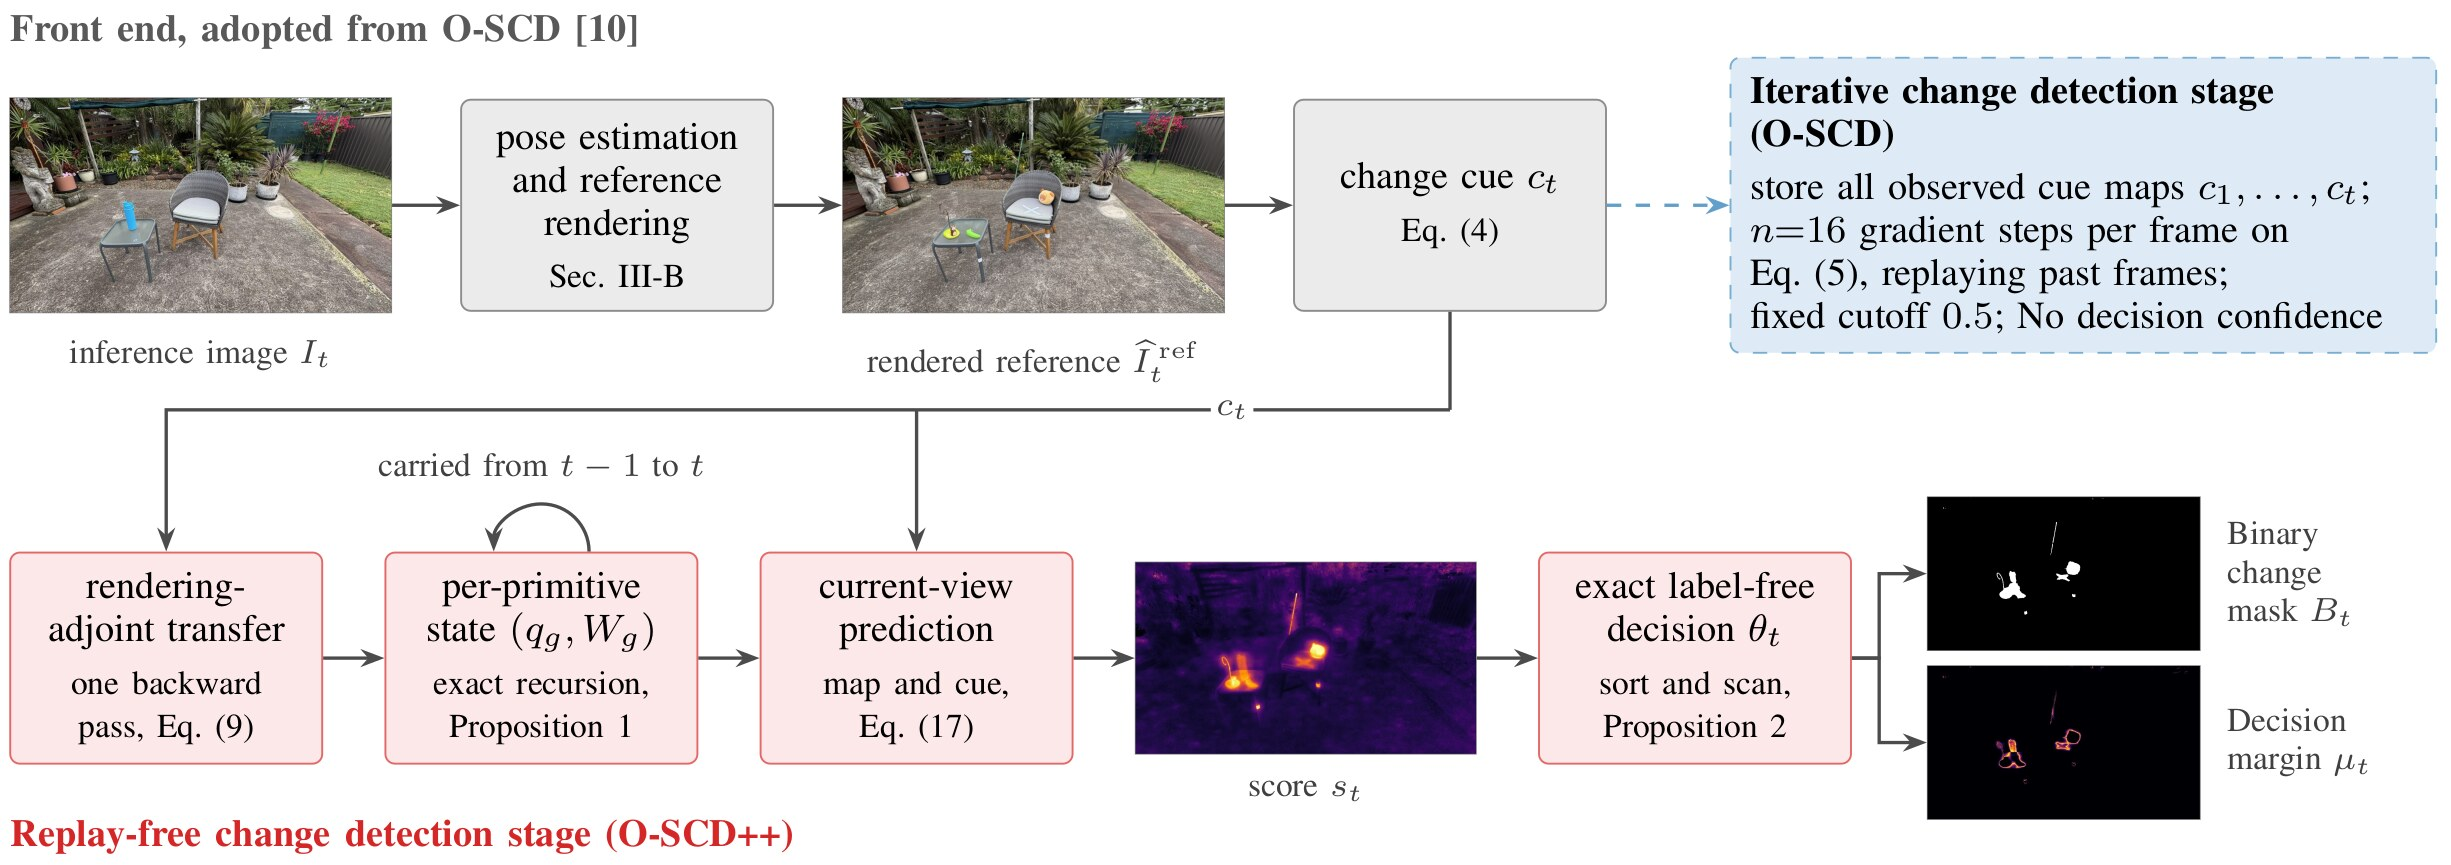
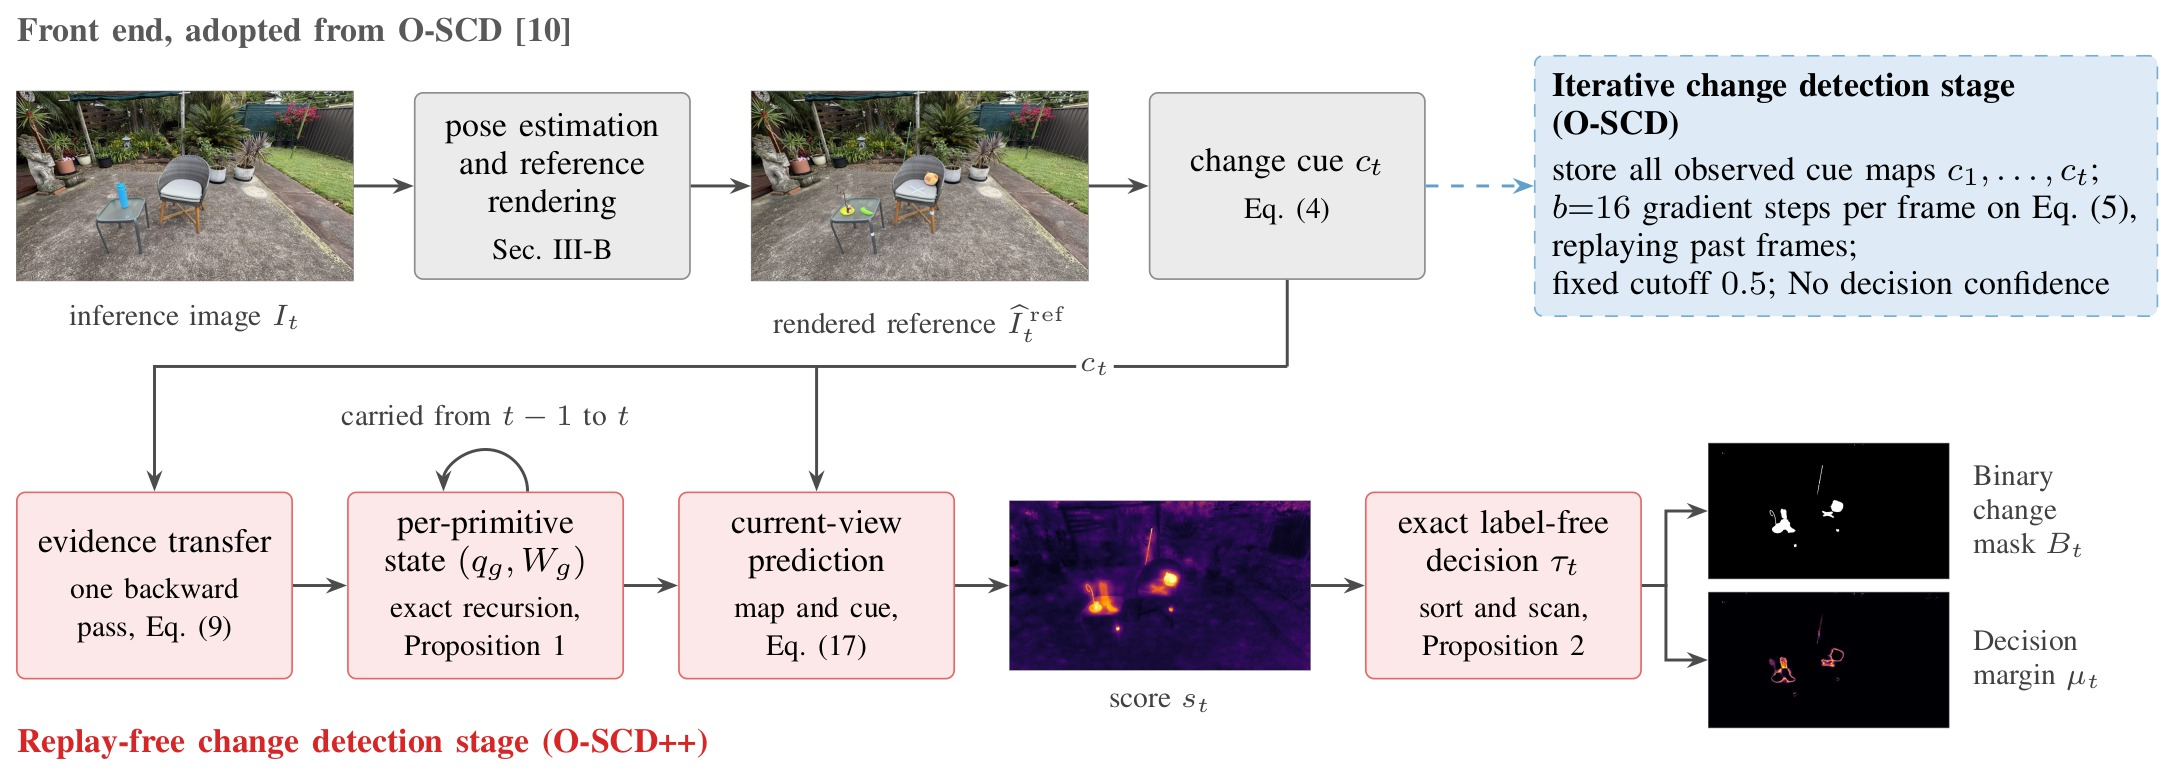
Sync the O-SCD++ page with the revised paper
Use the revised abstract, the paper's overview figure and Fig. 2 notation
(b, T_bwd, O(G + N)), the Table VIII runtime shares and the 11.8 FPS
default O-SCD point, and add the OmniposeAD baseline rows.

diff --git a/docs/plusplus/index.html b/docs/plusplus/index.html
@@ -157,7 +157,7 @@
                   { "series": "oscd", "x": 2.9, "y": 0.518, "name": "O-SCD, 128 iterations/frame", "tip": "2.9 FPS · mIoU 0.518", "color": "oscd", "shape": "square", "size": 5, "label": "128", "muted": true, "anchor": "middle", "dx": 0, "dy": -12 },
                   { "series": "oscd", "x": 4.84, "y": 0.5064, "name": "O-SCD, 64 iterations/frame", "tip": "4.8 FPS · mIoU 0.506", "color": "oscd", "shape": "square", "size": 5, "label": "64", "muted": true, "anchor": "middle", "dx": 0, "dy": -12 },
                   { "series": "oscd", "x": 8.39, "y": 0.4907, "name": "O-SCD, 32 iterations/frame", "tip": "8.4 FPS · mIoU 0.491", "color": "oscd", "shape": "square", "size": 5, "label": "32", "muted": true, "anchor": "middle", "dx": 0, "dy": -12 },
-                  { "series": "oscd", "x": 12.01, "y": 0.4866, "name": "O-SCD, 16 iterations/frame (default)", "tip": "12.0 FPS · mIoU 0.487", "color": "oscd", "shape": "square", "size": 5, "label": "16 (default)", "muted": true, "anchor": "middle", "dx": 0, "dy": -12 },
+                  { "series": "oscd", "x": 11.8, "y": 0.489, "name": "O-SCD, 16 iterations/frame (default)", "tip": "11.8 FPS · mIoU 0.489", "color": "oscd", "shape": "square", "size": 5, "label": "16 (default)", "muted": true, "anchor": "middle", "dx": 0, "dy": -12 },
                   { "series": "oscd", "x": 15.88, "y": 0.4808, "name": "O-SCD, 8 iterations/frame", "tip": "15.9 FPS · mIoU 0.481", "color": "oscd", "shape": "square", "size": 5, "label": "8", "muted": true, "anchor": "middle", "dx": 0, "dy": -12 },
                   { "series": "oscd", "x": 19.79, "y": 0.4763, "name": "O-SCD, 4 iterations/frame", "tip": "19.8 FPS · mIoU 0.476", "color": "oscd", "shape": "square", "size": 5, "label": "4", "muted": true, "anchor": "middle", "dx": 0, "dy": -12 },
                   { "series": "oscd", "x": 22.40, "y": 0.4586, "name": "O-SCD, 2 iterations/frame", "tip": "22.4 FPS · mIoU 0.459", "color": "oscd", "shape": "square", "size": 5, "label": "2", "muted": true, "anchor": "middle", "dx": 0, "dy": -12 },
@@ -183,8 +183,8 @@
       <div class="wrap prose abstract">
         <span class="eyebrow">Abstract</span>
         <h2>Removing the accuracy–speed trade-off</h2>
-        <p>Online scene change detection requires an agent to detect what has changed in a previously mapped environment while it is still on site, observing from unconstrained viewpoints and without access to future observations. This causal setting is strictly harder than its offline counterpart, and online methods have consistently trailed offline accuracy. O-SCD closed that gap by treating change as a persistent property of a 3D Gaussian splatting map of the reference scene, surpassing the strongest offline methods in change detection accuracy while operating at over 10 frames per second. O-SCD optimizes a change field over the Gaussians of the reference map, refitting it to all past cue maps at every frame, a step that consumes more than half of the per-frame budget and forces accuracy to be traded against speed.</p>
-        <p>We present a <strong>replay-free formulation</strong> that eliminates this trade-off. Because the reference map stays fixed, rendering the change field is a linear operation. Each new observation can therefore be carried onto the map's Gaussians directly, by <strong>a single backward pass of the renderer</strong>, which reduces multi-view fusion to an <strong>exact two-scalar recursion per Gaussian</strong>. Past observations are never stored or revisited. The self-supervised objective that O-SCD minimizes by descent also determines the decision threshold exactly, by sorting, yielding a <strong>label-free per-frame cutoff</strong> whose margin provides a selective-prediction signal. On PASLCD, our method improves mean intersection over union from 0.489 to 0.575 and throughput from 11.8 to 25.6 frames per second, even exceeding O-SCD's offline result while remaining strictly causal.</p>
+        <p>Online scene change detection requires an autonomous agent to detect what has changed in a previously mapped environment while it is still on site, observing from unconstrained viewpoints and without access to future observations. This causal setting is strictly harder than offline detection, and online methods have long trailed offline accuracy. Our earlier method, O-SCD, closed that gap at over 10 frames per second, but its multi-view fusion is an iterative optimization that refits a change field over a 3D Gaussian splatting map of the reference scene to all past observations at every frame. This step consumes over half of the per-frame budget and forces accuracy to be traded against speed.</p>
+        <p>We present O-SCD++, a replay-free formulation that eliminates this trade-off. Because the reference map stays fixed, rendering the change field is a linear operation. Each new observation can therefore be carried onto the map's Gaussians by a single backward pass of the renderer and fused by a two-scalar recursion per Gaussian. Past observations are never stored or revisited. O-SCD++ also makes the change/no-change decision without labels or iterative optimization. It sets each frame's threshold to the exact minimizer of O-SCD's self-supervised objective over threshold masks, using one sort, and the distance to this threshold gives a per-pixel decision margin that predicts errors. On PASLCD, O-SCD++ improves change detection accuracy (mIoU) from 0.489 to 0.575 and throughput from 11.8 to 25.6 frames per second, exceeding O-SCD's offline result while remaining causal. Code will be released upon acceptance.</p>
       </div>
     </section>
 
@@ -196,11 +196,11 @@
         <figure class="fig">
           <div class="paper">
             <a class="zoom" href="../static/oscdpp/images/overview.jpg" aria-label="Open the full-resolution overview figure">
-              <img src="../static/oscdpp/images/overview.jpg" width="2451" height="865" loading="lazy" alt="O-SCD++ overview. Front end adopted from O-SCD: pose estimation and reference rendering produce a change cue. Replay-free change stage: rendering-adjoint transfer (one backward pass), per-primitive state updated by exact recursion, current-view prediction, and an exact label-free decision by sort and scan, giving a binary change mask and a decision margin. The iterative change stage of O-SCD is shown dashed.">
+              <img src="../static/oscdpp/images/overview.jpg" width="2178" height="774" loading="lazy" alt="O-SCD++ overview. Front end adopted from O-SCD: pose estimation and reference rendering produce a change cue. Replay-free change stage: evidence transfer (one backward pass), per-primitive state updated by exact recursion, current-view prediction, and an exact label-free decision by sort and scan, giving a binary change mask and a decision margin. The iterative change stage of O-SCD is shown dashed.">
             </a>
           </div>
           <span class="zoom-hint">Click to open full resolution · equation, section and proposition numbers refer to the paper</span>
-          <figcaption><b>Figure 2.</b> Overview of O-SCD++ for one inference frame. The front end, adopted from O-SCD, registers the inference image against the reference map and computes a change cue. The replay-free change stage transfers the cue onto the reference primitives with one rasterizer backward pass, folds it into a two-scalar state per primitive by an exact recursion, predicts a score for the current view from the updated state and the current cue, and binarizes it with the exact minimizer of a label-free objective, which also yields a per-pixel decision margin. It eliminates the replay-based optimization of O-SCD (dashed).</figcaption>
+          <figcaption><b>Figure 2.</b> Overview of O-SCD++ for one inference frame. The front end, adopted from O-SCD, registers the inference image against the reference map and computes a change cue. The replay-free change detection stage transfers the cue onto the reference primitives with one rasterizer backward pass, folds it into a two-scalar state per primitive by an exact recursion, predicts a score for the current view from the updated state and the current cue, and binarizes it with the exact minimizer of a label-free objective, which also yields a per-pixel decision margin. It eliminates the replay-based optimization of O-SCD (dashed).</figcaption>
         </figure>
 
         <div class="card" style="padding: clamp(14px, 2.4vw, 24px); margin-top: 36px">
@@ -213,10 +213,10 @@
             <div class="step">(i)<small>Transfer</small></div>
             <div class="box old">Gradient steps on the self-supervised loss, backpropagated through the rasterizer</div>
             <div class="arrow" aria-hidden="true"><svg><use href="#i-arrow"/></svg></div>
-            <div class="box new">One rasterizer backward pass applies the rendering adjoint A<sup>&#8868;</sup></div>
+            <div class="box new">One rasterizer backward pass applies A<sup>&#8868;</sup></div>
 
             <div class="step">(ii)<small>Combine</small></div>
-            <div class="box old">Replay: <i>n</i>&nbsp;=&nbsp;16 steps per frame on stored cue maps <i>c</i><sub>1</sub>, …, <i>c</i><sub><i>t</i></sub></div>
+            <div class="box old">Replay: <i>b</i>&nbsp;=&nbsp;16 steps per frame on stored cue maps <i>c</i><sub>1</sub>, …, <i>c</i><sub><i>t</i></sub></div>
             <div class="arrow" aria-hidden="true"><svg><use href="#i-arrow"/></svg></div>
             <div class="box new">Exact recursion on two scalars (<i>q</i><sub><i>g</i></sub>, <i>W</i><sub><i>g</i></sub>) per Gaussian</div>
 
@@ -228,9 +228,9 @@
             <div class="gap"></div>
 
             <div class="step">Cost<small>per frame</small></div>
-            <div class="box old" style="font-size: 14px"><i>n</i>(<i>T</i><sub>rast</sub> + <i>T</i><sub>adj</sub>) + <i>T</i><sub>rast</sub><br>memory <i>O</i>(<i>G</i> + <i>tN</i>)</div>
+            <div class="box old" style="font-size: 14px"><i>b</i>(<i>T</i><sub>rast</sub> + <i>T</i><sub>bwd</sub>) + <i>T</i><sub>rast</sub><br>memory <i>O</i>(<i>G</i> + <i>tN</i>)</div>
             <div class="arrow" aria-hidden="true"><svg><use href="#i-arrow"/></svg></div>
-            <div class="box new" style="font-size: 14px">2<i>T</i><sub>rast</sub> + <i>T</i><sub>adj</sub> + <i>O</i>(<i>N</i> log <i>N</i>)<br>memory <i>O</i>(<i>G</i>)</div>
+            <div class="box new" style="font-size: 14px">2<i>T</i><sub>rast</sub> + <i>T</i><sub>bwd</sub> + <i>O</i>(<i>N</i> log <i>N</i>)<br>memory <i>O</i>(<i>G</i> + <i>N</i>)</div>
 
             <div class="step">PASLCD<small>online</small></div>
             <div class="box old"><span class="num">0.489</span> mIoU · <span class="num">11.8</span> FPS</div>
@@ -238,12 +238,12 @@
             <div class="box new"><span class="num">0.575</span> mIoU · <span class="num">25.6</span> FPS</div>
           </div>
         </div>
-        <p class="table-note">The per-frame cost loses its iteration budget <i>n</i> and its dependence on the number <i>t</i> of frames processed. <i>G</i>: primitives; <i>N</i>: pixels.</p>
+        <p class="table-note">The per-frame cost loses its iteration budget <i>b</i> and its dependence on the number <i>t</i> of frames processed. <i>G</i>: primitives; <i>N</i>: pixels.</p>
 
         <div class="cards" style="margin-top: 28px">
           <div class="pcard"><span class="meta">Exactness</span><span class="t">Order-invariant</span><span class="d">The state reached after a sequence does not depend on the order in which the frames arrive.</span></div>
           <div class="pcard"><span class="meta">Exactness</span><span class="t">Retrospective re-inference</span><span class="d">Re-applied to every frame, the final state improves on the online masks without any refinement.</span></div>
-          <div class="pcard"><span class="meta">Exactness</span><span class="t">Decision margins</span><span class="d">The exact decision yields a per-pixel margin: to our knowledge the first confidence signal from a label-free online SCD method.</span></div>
+          <div class="pcard"><span class="meta">Exactness</span><span class="t">Decision margins</span><span class="d">The exact decision also provides a per-pixel margin that ranks decisions by confidence.</span></div>
         </div>
       </div>
     </section>
@@ -388,6 +388,7 @@
               <tr><td>CS+CYWS2D</td><td class="no">–</td><td class="no">–</td><td class="no">–</td><td>0.243</td><td>0.360</td><td>8.2</td></tr>
               <tr><td>CS+GeSCF</td><td class="yes">✓</td><td class="no">–</td><td class="no">–</td><td>0.181</td><td>0.270</td><td>&lt;1</td></tr>
               <tr><td>FastGeSCF</td><td class="no">–</td><td class="no">–</td><td class="no">–</td><td>0.122</td><td>0.198</td><td>1.43</td></tr>
+              <tr><td>OmniposeAD</td><td class="yes">✓</td><td class="yes">✓</td><td class="no">–</td><td>0.168</td><td>0.262</td><td>&lt;1</td></tr>
               <tr><td>SplatPose</td><td class="yes">✓</td><td class="yes">✓</td><td class="no">–</td><td>0.173</td><td>0.281</td><td>&lt;1</td></tr>
               <tr><td>SplatPose+</td><td class="yes">✓</td><td class="yes">✓</td><td class="no">–</td><td>0.237</td><td>0.358</td><td>&lt;1</td></tr>
               <tr><td>O-SCD</td><td class="yes">✓</td><td class="yes">✓</td><td class="yes">✓</td><td class="second">0.489</td><td class="second">0.643</td><td class="second">11.8</td></tr>
@@ -428,6 +429,7 @@
                 <tr><td>CS+CYWS2D</td><td class="bl">0.372</td><td>0.519</td><td class="bl">0.271</td><td>0.408</td></tr>
                 <tr><td>CS+GeSCF</td><td class="bl">0.520</td><td>0.630</td><td class="bl">0.348</td><td>0.484</td></tr>
                 <tr><td>FastGeSCF</td><td class="bl">0.183</td><td>0.252</td><td class="bl">0.315</td><td>0.458</td></tr>
+                <tr><td>OmniposeAD</td><td class="bl">0.166</td><td>0.247</td><td class="bl">0.073</td><td>0.125</td></tr>
                 <tr><td>SplatPose</td><td class="bl">0.224</td><td>0.320</td><td class="bl">0.061</td><td>0.108</td></tr>
                 <tr><td>SplatPose+</td><td class="bl">0.556</td><td>0.700</td><td class="bl">0.115</td><td>0.186</td></tr>
                 <tr><td>O-SCD</td><td class="bl second">0.657</td><td class="second">0.773</td><td class="bl second">0.404</td><td class="second">0.535</td></tr>
@@ -443,11 +445,11 @@
                 <tr><th scope="col" class="bl">ms</th><th scope="col">%</th><th scope="col" class="bl">ms</th><th scope="col">%</th></tr>
               </thead>
               <tbody>
-                <tr><td><strong>Pose estimation</strong></td><td class="bl">30.4</td><td>36.0</td><td class="bl">30.2</td><td>77</td></tr>
-                <tr class="divider"><td><strong>Change detection</strong></td><td class="bl">54.4</td><td>64.0</td><td class="bl best">9.0</td><td>23</td></tr>
+                <tr><td><strong>Pose estimation</strong></td><td class="bl">30.4</td><td>35.8</td><td class="bl">30.2</td><td>77.0</td></tr>
+                <tr class="divider"><td><strong>Change detection</strong></td><td class="bl">54.4</td><td>64.2</td><td class="bl best">9.0</td><td>23.0</td></tr>
                 <tr class="sub"><td>Change cue generation</td><td class="bl">6.1</td><td>7.2</td><td class="bl">5.9</td><td>15.0</td></tr>
-                <tr class="sub"><td>Multi-view fusion</td><td class="bl">47.8</td><td>56.5</td><td class="bl best">2.1</td><td>5.5</td></tr>
-                <tr class="sub"><td>Mask inference</td><td class="bl">0.5</td><td>0.3</td><td class="bl">1.0</td><td>2.5</td></tr>
+                <tr class="sub"><td>Multi-view fusion</td><td class="bl">47.8</td><td>56.4</td><td class="bl best">2.1</td><td>5.4</td></tr>
+                <tr class="sub"><td>Mask inference</td><td class="bl">0.5</td><td>0.6</td><td class="bl">1.0</td><td>2.6</td></tr>
               </tbody>
             </table>
           </div>
